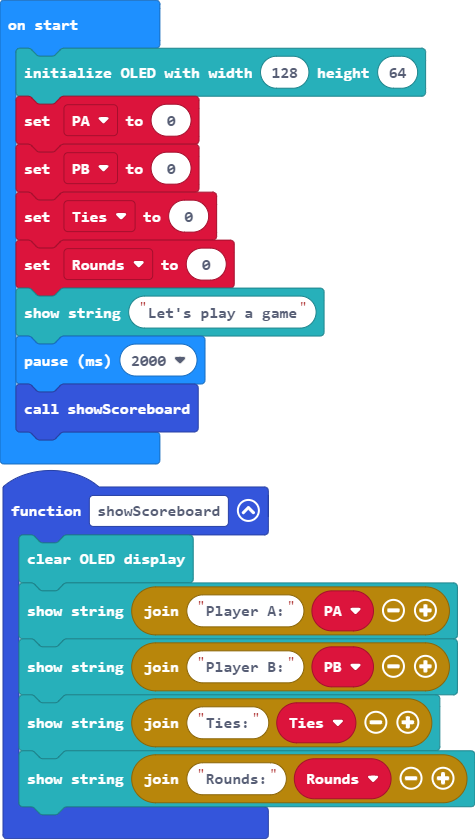
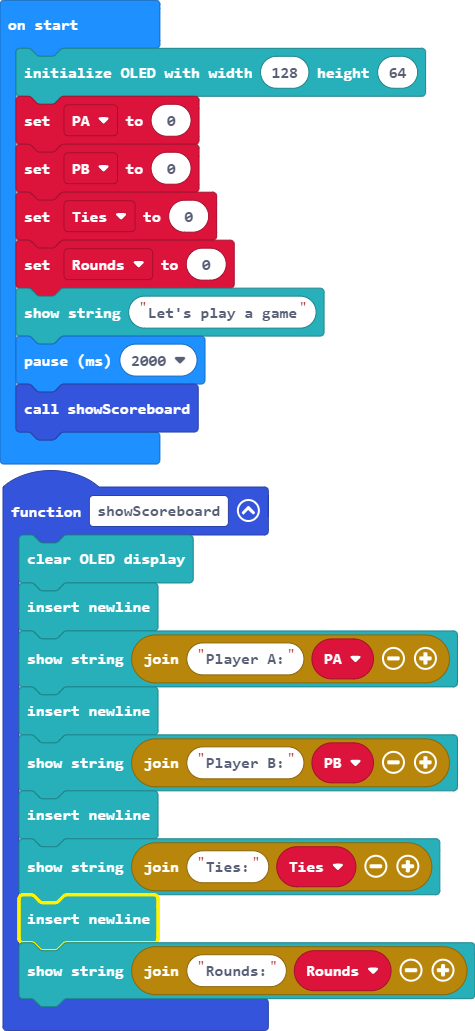
Update main.blocks, main.ts

diff --git a/main.ts b/main.ts
@@ -1,8 +1,12 @@
 function showScoreboard () {
     OLED.clear()
+    OLED.newLine()
     OLED.writeStringNewLine("Player A:" + PA)
+    OLED.newLine()
     OLED.writeStringNewLine("Player B:" + PB)
+    OLED.newLine()
     OLED.writeStringNewLine("Ties:" + Ties)
+    OLED.newLine()
     OLED.writeStringNewLine("Rounds:" + Rounds)
 }
 let Rounds = 0
